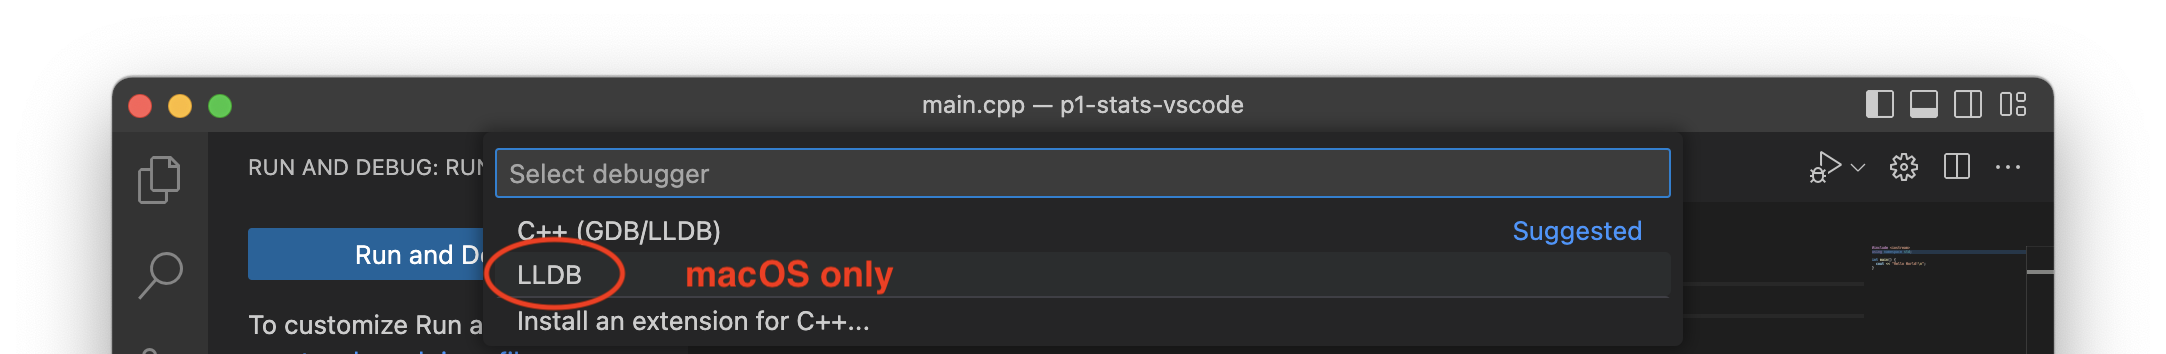
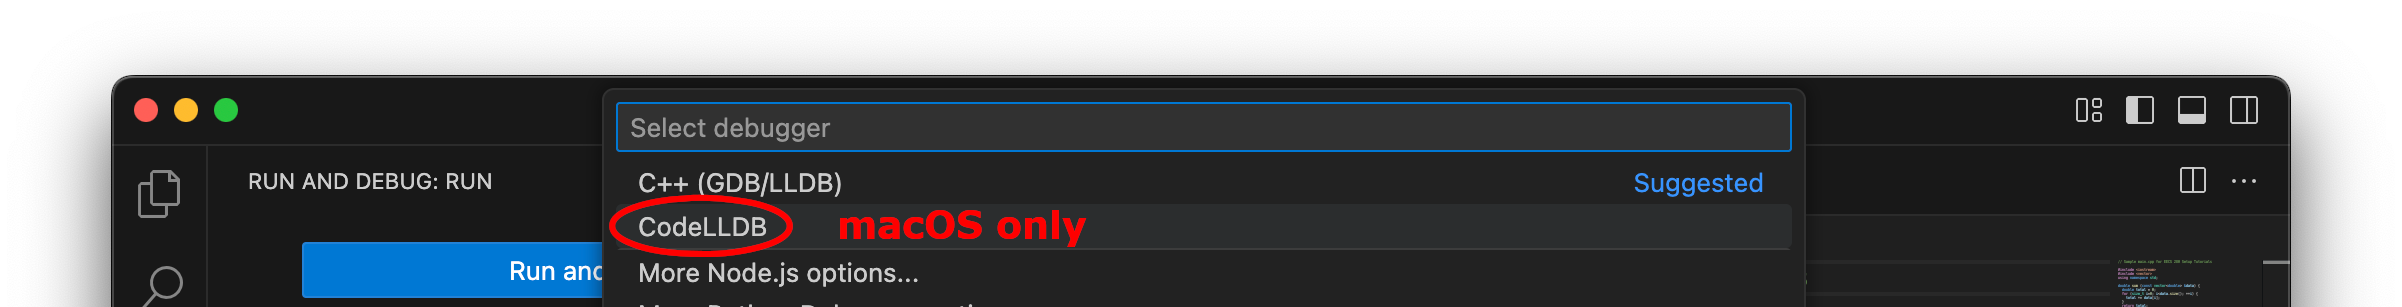
fix: update macOS VSCode launch.json creation to reflect CodeLLDB changes

Changed region(s): [[0.0309, 0.2052, 0.9898, 1.0]]

diff --git a/docs/setup_vscode_macos.md b/docs/setup_vscode_macos.md
@@ -287,13 +287,17 @@ Navigate to the debugging pane and click "create a launch.json file". Or, if you
 
 | <img src="images/vscode_macos_030.png" width="360px" /> | <span style="font-size: 24pt;">OR</span> | <img src="images/vscode_macos_031.png" width="360px" /> |
 
-If you are prompted to select a debugger, select "LLDB". (Do NOT select "C++ (GDB/LLDB)".)
+If you are prompted to select a debugger, select "CodeLLDB". (Do NOT select "C++ (GDB/LLDB)".)
 
 <img src="images/vscode_macos_031b.png" width="768px" />
 
 <div class="primer-spec-callout warning" markdown="1">
 **Pitfall:** VS Code may not offer you debugging options for C++ if you haven't opened a `.cpp` file in your project editor. Open a `.cpp` file, then try again.
 </div>
+
+If you are prompted to select a configuration, select "CodeLLDB: Launch". You may need to scroll down to find this option.
+
+<img src="images/vscode_macos_032.png" width="768px" />
 
 Edit the `program` field in `launch.json`.  Save the updated file.  Your `program` name might be different.
 
